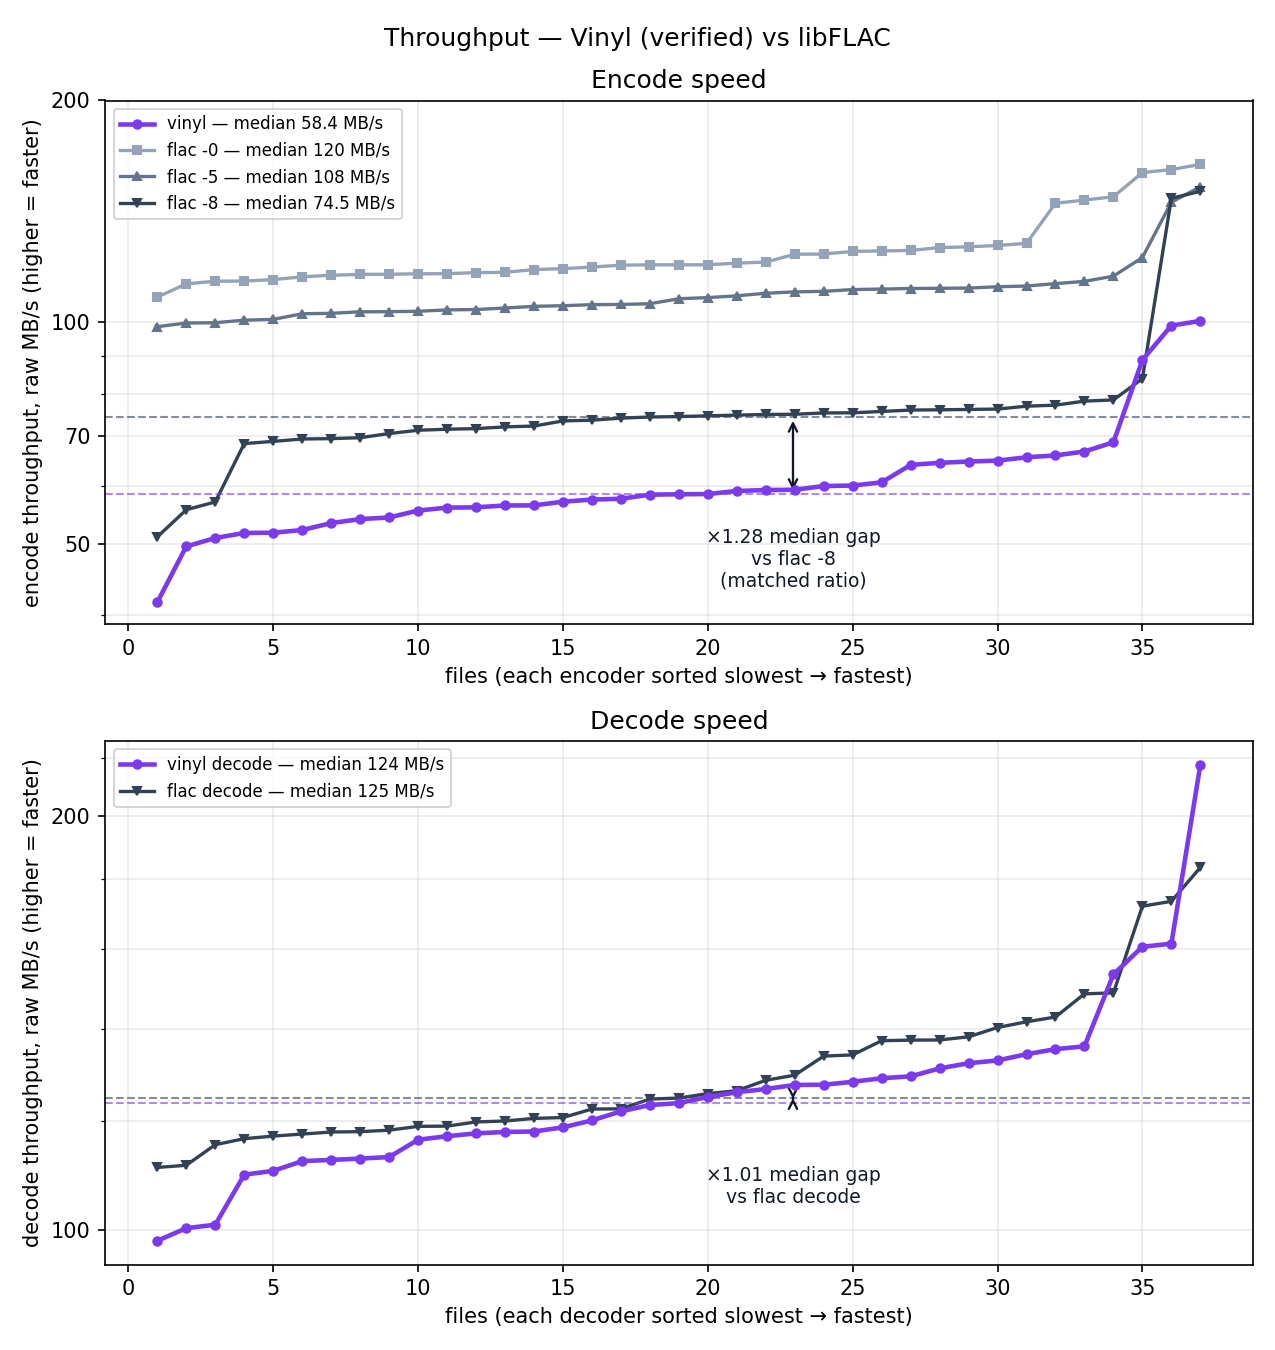
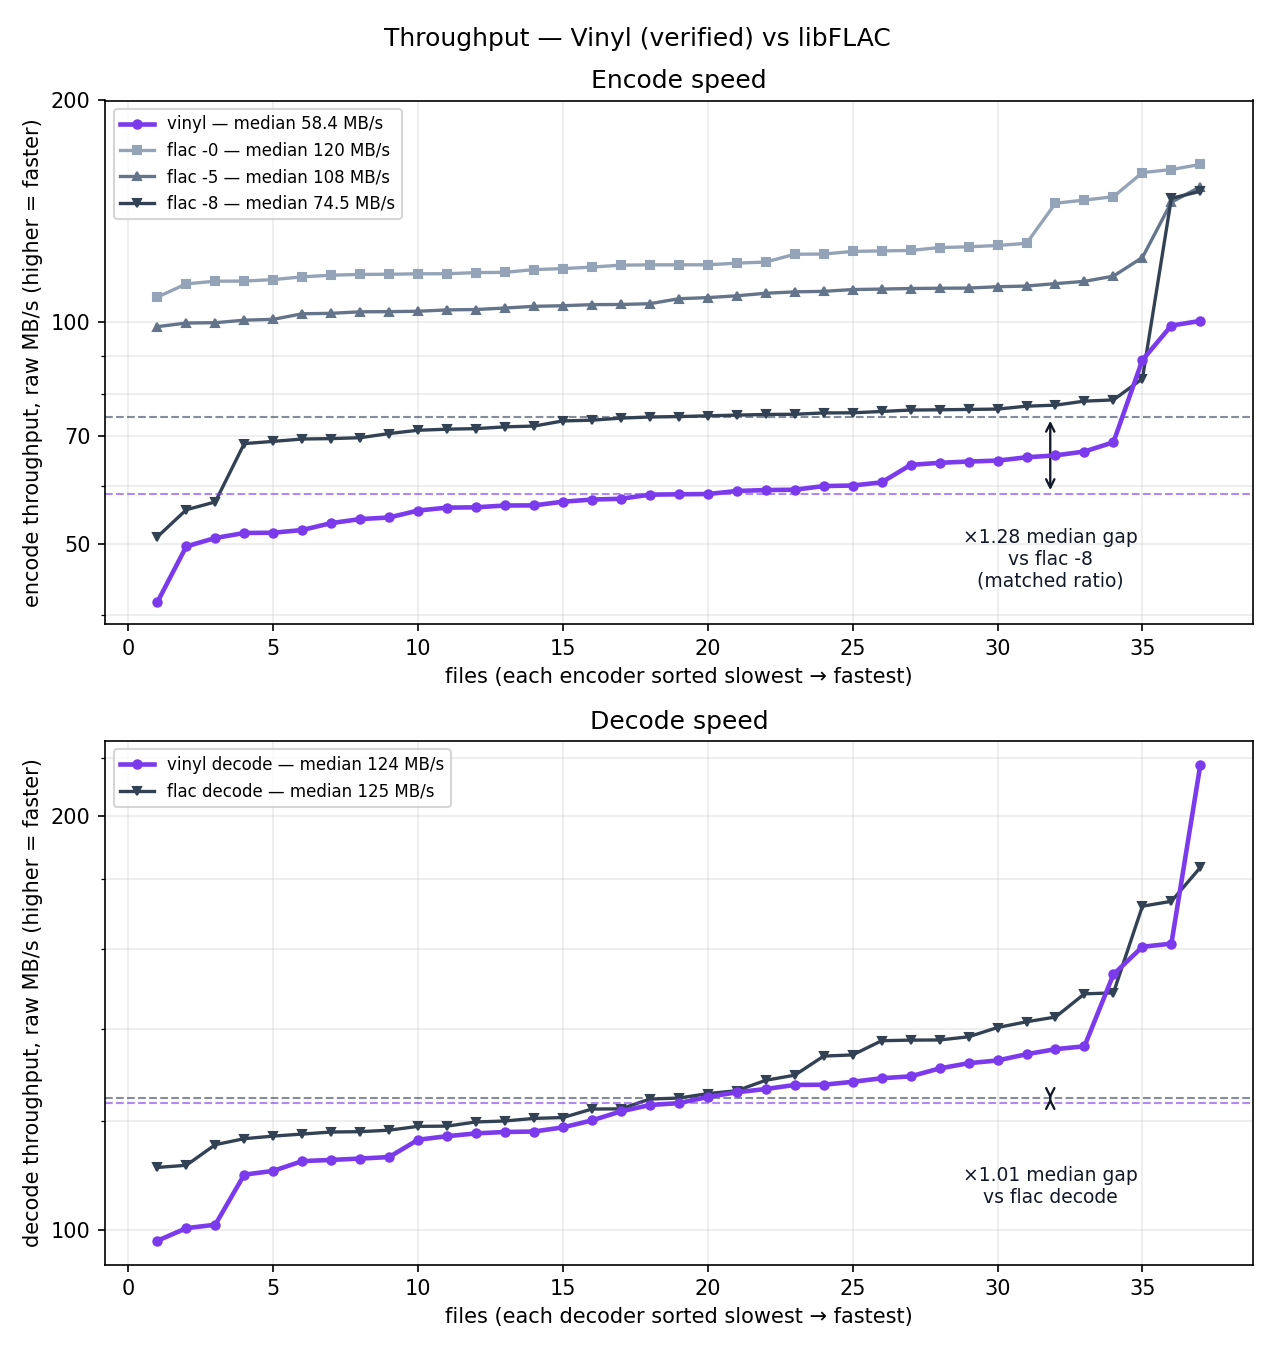
Put the gap arrow and caption under the right end of the curves
Both were at 62% of the files, which left the arrow crossing the region
the `flac -8` curve occupies.  Curves are sorted slowest to fastest, so
near the right end every one of them has climbed well above both median
lines: the arrow now stands at 86%, spanning the two dashed medians in
clear space, with the caption directly beneath Vinyl's median line under
it.

Advances M6 (documentation). No code changed.

diff --git a/bench/plot.py b/bench/plot.py
@@ -114,12 +114,12 @@ def throughput_panel(ax, styles, kind, gap_pair, gap_note=""):
         hi_med = statistics.median(speed[hi])
         for med, enc in ((lo_med, lo), (hi_med, hi)):
             ax.axhline(med, color=styles[enc]["color"], ls="--", lw=1, alpha=0.6)
-        # Curves are sorted slowest → fastest, so they rise left to right:
-        # the upper left and lower right are the empty corners. Put the
-        # arrow where the Vinyl curve has already climbed above its own
-        # median, and the caption *below* Vinyl's median line, so the label
-        # never sits on top of a curve.
-        x = n * 0.62
+        # Curves are sorted slowest → fastest, so they rise left to right
+        # and the lower right is the empty corner: near the right end every
+        # curve has climbed well above both median lines, leaving the space
+        # under them clear. Put the arrow there, between the two dashed
+        # medians, and the caption below Vinyl's median line beneath it.
+        x = n * 0.86
         ax.annotate("", xy=(x, hi_med), xytext=(x, lo_med),
                     arrowprops=dict(arrowstyle="<->", color="#111827", lw=1.1))
         ax.text(x, lo_med * 0.90,
